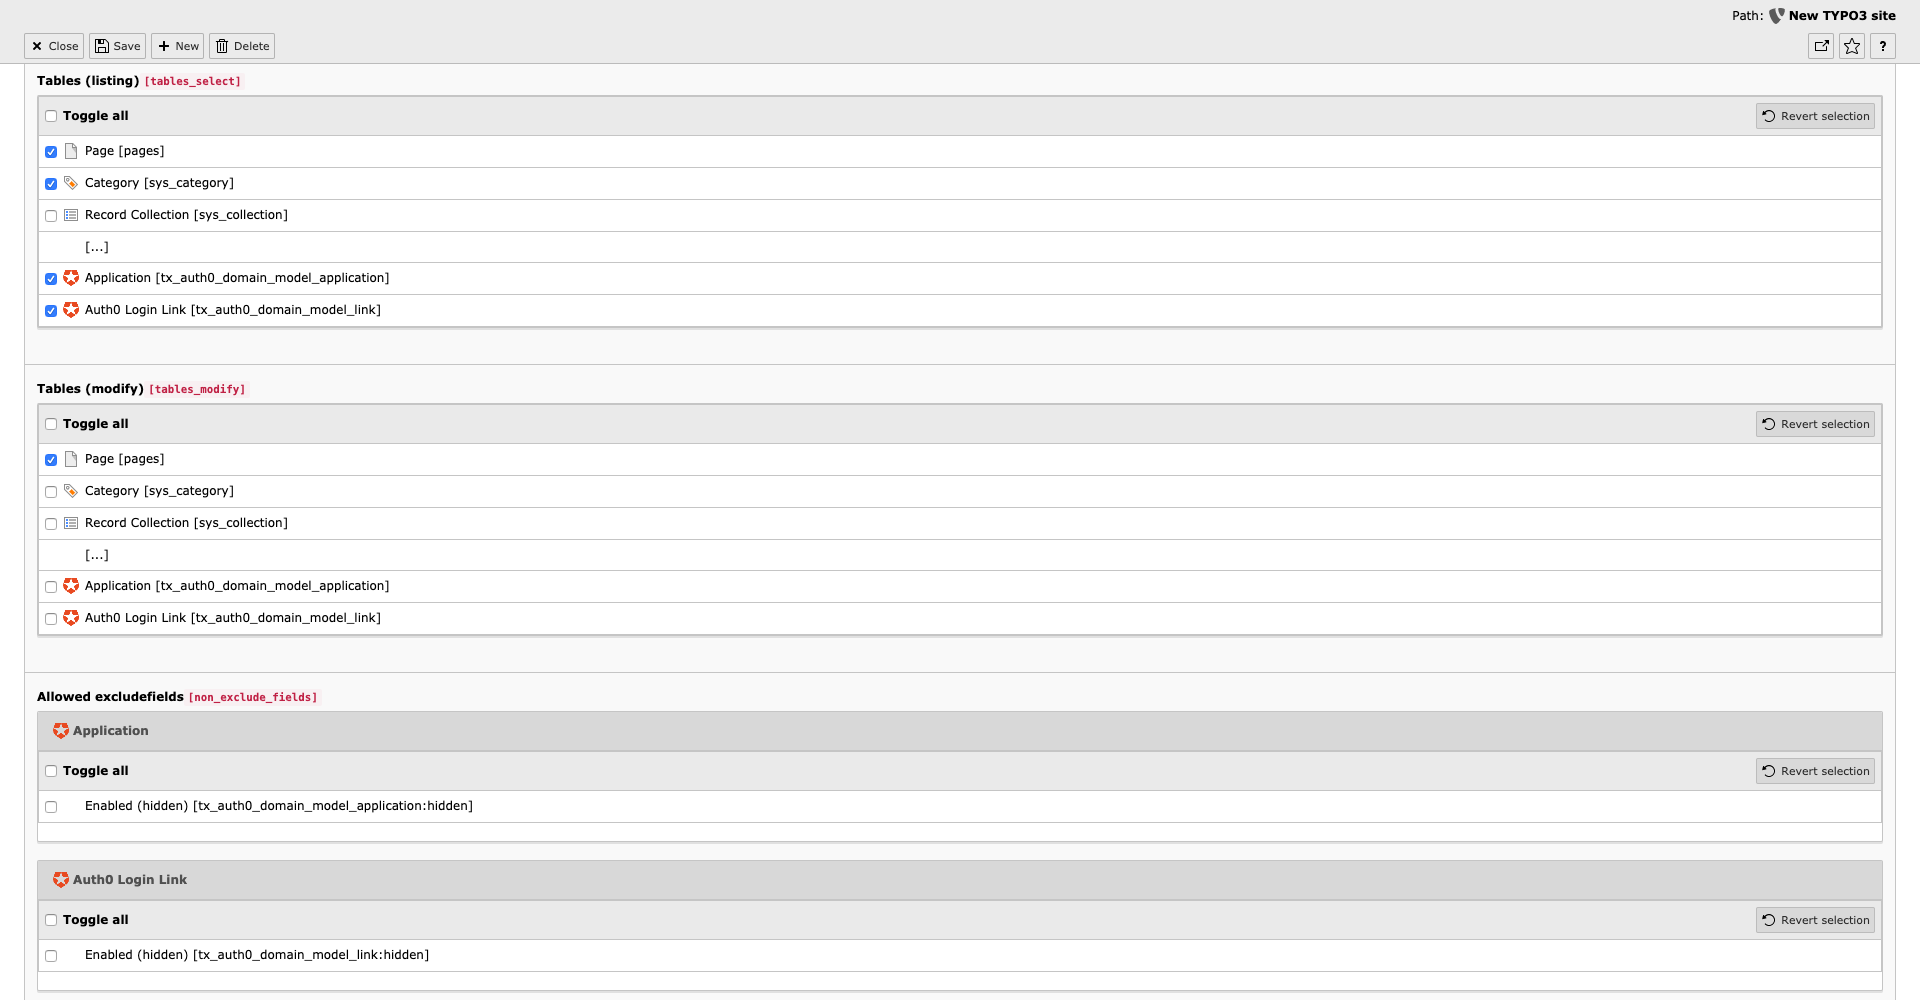
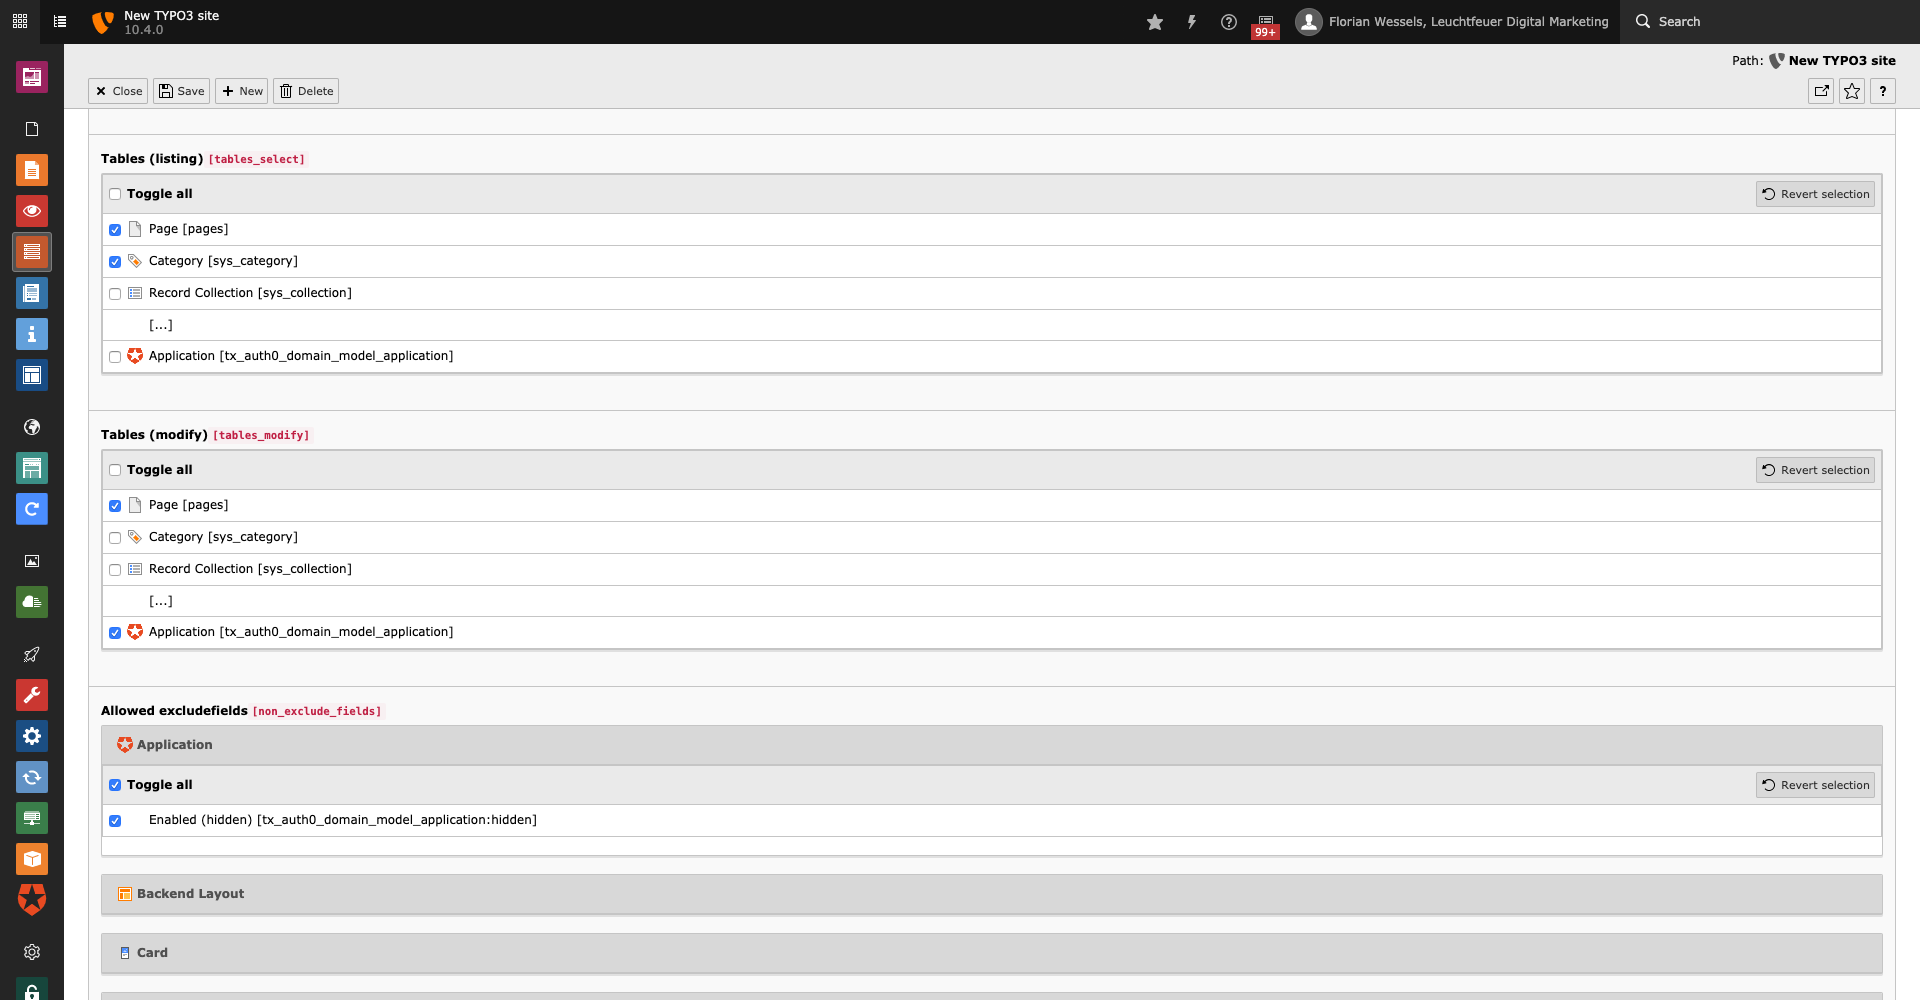
[DOC] Update documentation

Changed region(s): [[0.0, 0.0, 1.0, 1.0]]

diff --git a/Documentation/Admin/Index.rst b/Documentation/Admin/Index.rst
@@ -61,17 +61,17 @@ Access Rights
 
 You need to allow editors to modify the record type (*Tables (modify)*). Editors can create or update plugins when they are
 allowed to modify the page content type *Insert Plugin* and the page content plugin *Auth0: Login form*. Also they may have
-- at least reading (*Tables (listing)*) - access to the tables *Application* and *Auth0 Login Link*
+- at least reading (*Tables (listing)*) - access to the *Application* table.
 
-If your editors should be able to create, update or delete :ref:`application <>` or :ref:`link <>` records, they must be permitted
-to modify the corresponding tables *Application* and *Auth0 Login Link*. Only the `hidden` property of both records is marked
-as excluded field.
+If your editors should be able to create, update or delete :ref:`application <editor-dataTypes-application>` records, they must be
+permitted to modify the corresponding tables *Application* . Only the `hidden` property of both records is marked as excluded
+field.
 
-.. figure:: ../../Images/access-rights.png
+.. figure:: ../Images/access-rights.png
    :alt: Access rights
    :class: with-shadow
 
-   In this example the editor group is allowed to see (list) the application and link record.
+   In this example the editor group is allowed to see (list) the application record.
 
 .. _admin-schedulerTask:
 

diff --git a/Documentation/About/Index.rst b/Documentation/About/Index.rst
@@ -21,8 +21,7 @@ You need access to an Auth0 instance. We are currently supporting following TYPO
    :align: center
 
         "3.2.x", "🙋♂", "🙋♂", "🙅♀"
-        "3.1.x", "🙋♂", "🙋♂", "🙅♀"
-        "3.0.x", "🙅♀", "🙋♂", "🙅♀"
+        "3.0.x, 3.1.x", "🙅♀", "🙋♂", "🙅♀"
         "2.x", "🙅♀", "🙋♂", "🙅♀"
         "1.x", "🙅♀", "🙅♀", "🙋♂"
 

diff --git a/Documentation/Editor/Index.rst b/Documentation/Editor/Index.rst
@@ -6,7 +6,8 @@
 For Editors
 ===========
 
-TODO: Add
+Depending on access rights, editors can create new :ref:`content elements <editor-plugin>` of kind "Auth0 Login" or create and
+modify the :ref:`Application <editor-dataTypes-application>` data record.
 
 .. toctree::
     :maxdepth: 3
